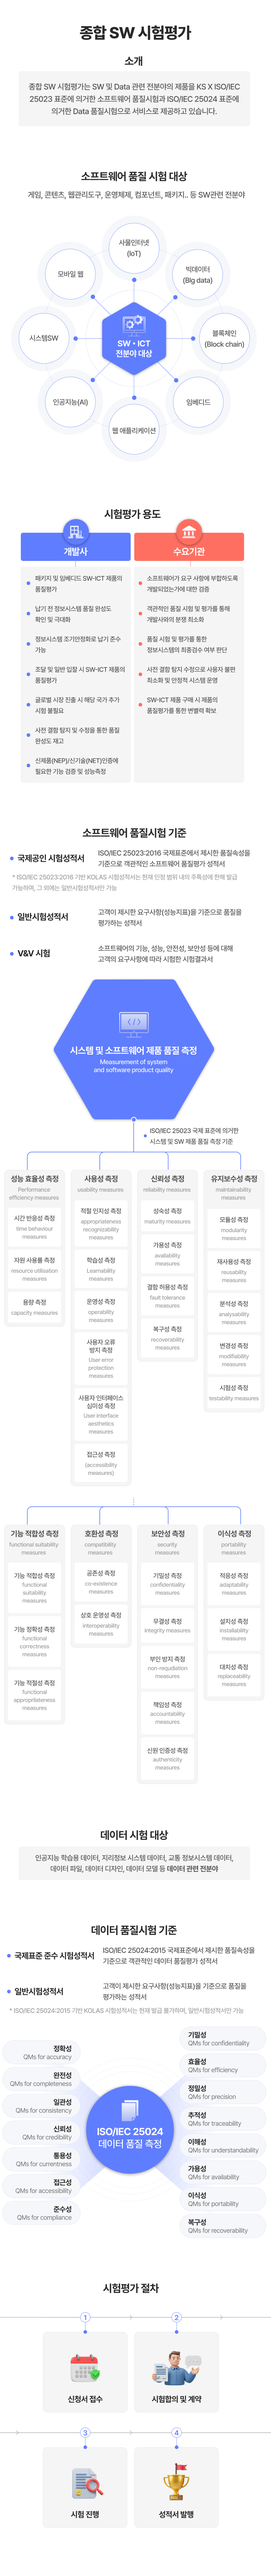
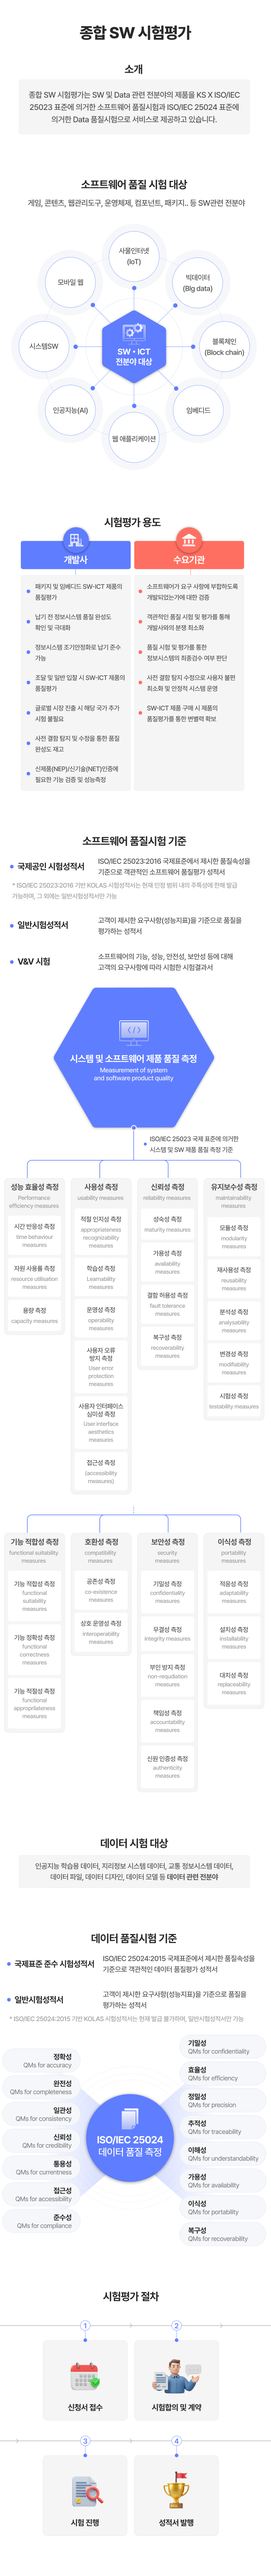
mobile

diff --git a/accreditation4_m.html b/accreditation4_m.html
@@ -30,10 +30,45 @@
   }
     .backimg0{
       position: absolute;
-      top:26.3%;
+      top:21.2%;
       background-color: var(--gray-3);
       width: 100%;
-      height: 73.7%;
+      height: 78.8%;
+    }
+    [class^="copybtn"]{
+      cursor: pointer;
+      z-index: 1;
+      position: absolute;
+      width: 5.9%;
+      height: 0.72%;
+      border: none;
+      background: transparent;
+    }
+    .copybtn0{
+      top: 39.36%;
+      left: 81.5%;
+    }
+    .copybtn1{
+      top: 41.1%;
+      left: 73.8%;
+    }
+    .copybtn2{
+      top: 58.5%;
+      left: 81.5%;
+    }
+    .copybtn3{
+      top: 60.2%;
+      left: 73.8%;
+    }
+    .contr-btn{
+      cursor: pointer;
+      z-index: 1;
+      position: absolute;
+      top: 93.8%;
+      left: 25.7%;
+      width: 46.4%;
+      height: 3.4%;
+      /* background-color: #292929; */
     }
     </style>
 </head>
@@ -80,8 +115,17 @@
   </div>
 
   <div style="display: flex; flex-direction: column; align-items: center; position: relative;">
-    <img src="resources/m2s4_im0.png" width="100%" style="max-width: 1920px; margin-top: 24px; z-index: 1;">
+    <img src="resources/m2s4_im0_m.png" width="100%" style="max-width: 512px; z-index: 1;">
     <div class="backimg0"></div>
+    <div style="position: absolute; top: 0; left: 0; width: 100%; height: 100%; display: flex; justify-content: center; ">
+      <div style="width: 100%; max-width: 512px; height: 100%; position: relative;">
+        <button class="copybtn0" onclick="copyToClipboard(event,'minjong.kim@byanna.io')"></button>
+        <button class="copybtn1" onclick="copyToClipboard(event,'shlee@byanna.io')"></button>
+        <button class="copybtn2" onclick="copyToClipboard(event,'minjong.kim@byanna.io')"></button>
+        <button class="copybtn3" onclick="copyToClipboard(event,'shlee@byanna.io')"></button>
+        <a class="contr-btn" ></a>
+      </div>
+    </div>
   </div>
   
   <div class="contractcont" >
@@ -123,6 +167,18 @@
 
   <script src="about.js"></script>
   <script>
+async function copyToClipboard(e, str) {
+  try {
+    await navigator.clipboard.writeText(str)
+    e.target.style.background = 'center / 100% 100% url(resources/copied.png)';
+    setTimeout(() => {
+      e.target.style.background = 'transparent';
+    }, 800);
+  } catch (error) {
+    console.error(error)
+  }
+}
+
 const mediaMobile = window.matchMedia("(min-width: 769px)");
 
 function handleDeviceChange() {

diff --git a/accreditation4.html b/accreditation4.html
@@ -33,6 +33,43 @@
       width: 100%;
       height: 73.7%;
     }
+
+    [class^="copybtn"]{
+      cursor: pointer;
+      z-index: 1;
+      position: absolute;
+      width: 3.3%;
+      height: 0.84%;
+      /* opacity: 0.6; */
+      border: none;
+      /* background: center / 100% 100% url(resources/copied.png); */
+      background: transparent;
+    }
+    .copybtn0{
+      top: 43.7%;
+      left: 66.8%;
+    }
+    .copybtn1{
+      top: 45.2%;
+      left: 63.9%;
+    }
+    .copybtn2{
+      top: 59.6%;
+      left: 66.8%;
+    }
+    .copybtn3{
+      top: 61.1%;
+      left: 63.9%;
+    }
+    .contr-btn{
+      cursor: pointer;
+      z-index: 1;
+      position: absolute;
+      top: 90.3%;
+      left: 37.9%;
+      width: 24.2%;
+      height: 3.6%;
+    }
     </style>
 </head>
 <body>
@@ -70,6 +107,15 @@
   <div style="display: flex; flex-direction: column; align-items: center; position: relative;">
     <img src="resources/m2s4_im0.png" width="100%" style="max-width: 1920px; margin-top: 24px; z-index: 1;">
     <div class="backimg0"></div>
+    <div style="position: absolute; top: 0; left: 0; width: 100%; height: 100%; display: flex; justify-content: center; ">
+      <div style="width: 100%; max-width: 1920px; height: 100%; position: relative;">
+        <button class="copybtn0" onclick="copyToClipboard(event,'minjong.kim@byanna.io')"></button>
+        <button class="copybtn1" onclick="copyToClipboard(event,'shlee@byanna.io')"></button>
+        <button class="copybtn2" onclick="copyToClipboard(event,'minjong.kim@byanna.io')"></button>
+        <button class="copybtn3" onclick="copyToClipboard(event,'shlee@byanna.io')"></button>
+        <a class="contr-btn" ></a>
+      </div>
+    </div>
   </div>
   
   <div class="contractcont" >
@@ -106,11 +152,24 @@
 
   <script src="about.js"></script>
   <script>
+async function copyToClipboard(e, str) {
+  try {
+    await navigator.clipboard.writeText(str)
+    console.log(e.target)
+    e.target.style.background = 'center / 100% 100% url(resources/copied.png)';
+    setTimeout(() => {
+      e.target.style.background = 'transparent';
+    }, 800);
+  } catch (error) {
+    console.error(error)
+  }
+}
+
 const mediaMobile = window.matchMedia("(max-width: 768px)");
 
 function handleDeviceChange() {
   if (mediaMobile.matches) {
-    window.location.href = "./accreditation3_m.html";
+    window.location.href = "./accreditation4_m.html";
   }
 }
 

diff --git a/test4.html b/test4.html
@@ -1,0 +1,53 @@
+<!DOCTYPE html>
+<html lang="ko">
+<head>
+    <meta charset="UTF-8">
+    <meta name="viewport" content="width=device-width, initial-scale=1.0">
+    <title>클립보드 이미지 붙여넣기</title>
+    <style>
+        #drop-area {
+            width: 100%;
+            height: 200px;
+            border: 2px dashed #aaa;
+            display: flex;
+            align-items: center;
+            justify-content: center;
+            font-size: 16px;
+            color: #666;
+            margin: 20px 0;
+        }
+        img {
+            max-width: 100%;
+            margin-top: 10px;
+        }
+    </style>
+</head>
+<body>
+
+    <div id="drop-area">Ctrl + V 또는 ⌘ + V로 이미지 붙여넣기</div>
+    <img id="preview" style="display: none;"/>
+
+    <script>
+        document.addEventListener("paste", (event) => {
+            const items = event.clipboardData.items;
+            
+            for (let item of items) {
+                if (item.type.startsWith("image/")) {
+                    const file = item.getAsFile();
+                    const reader = new FileReader();
+
+                    reader.onload = (e) => {
+                        const img = document.getElementById("preview");
+                        img.src = e.target.result;
+                        img.style.display = "block";
+                    };
+
+                    reader.readAsDataURL(file);
+                    break; // 첫 번째 이미지만 처리
+                }
+            }
+        });
+    </script>
+
+</body>
+</html>

diff --git a/accreditation_m.html b/accreditation_m.html
@@ -64,7 +64,7 @@
   </div>
 
   <div style="display: flex; flex-direction: column; align-items: center; position: relative;">
-    <img src="resources/m2s0_im0_m.png" width="100%" style="max-width: 512px; margin-top: 12px; z-index: 1;">
+    <img src="resources/m2s0_im0_m.png" width="100%" style="max-width: 512px; z-index: 1;">
     <div class="backimg0"></div>
   </div>
   

diff --git a/accreditation2_m.html b/accreditation2_m.html
@@ -81,7 +81,7 @@
   </div>
 
   <div style="display: flex; flex-direction: column; align-items: center; position: relative;">
-    <img src="resources/m2s2_im0_m.png" width="100%" style="margin-top: 12px; z-index: 1;">
+    <img src="resources/m2s2_im0_m.png" width="100%" style="max-width: 512px; z-index: 1;">
     <div class="backimg0"></div>
   </div>
   

diff --git a/accreditation1_m.html b/accreditation1_m.html
@@ -73,7 +73,7 @@
   </div>
 
   <div style="display: flex; flex-direction: column; align-items: center;">
-    <img src="resources/m2s1_im0_m.png" width="100%" style="max-width: 512px; margin-top: 12px;">
+    <img src="resources/m2s1_im0_m.png" width="100%" style="max-width: 512px;">
   </div>
   
   <div class="contractcont" >

diff --git a/accreditation3_m.html b/accreditation3_m.html
@@ -73,7 +73,7 @@
   </div>
 
   <div style="display: flex; flex-direction: column; align-items: center;">
-    <img src="resources/m2s3_im0_m.png" width="100%" style="margin-top: 12px;">
+    <img src="resources/m2s3_im0_m.png" width="100%" style="max-width: 512px;">
   </div>
   
   <div class="contractcont" >
